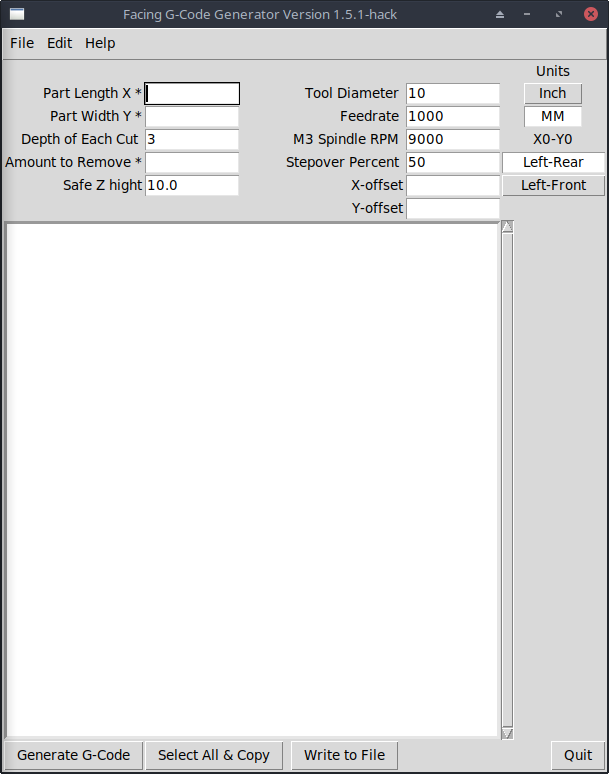
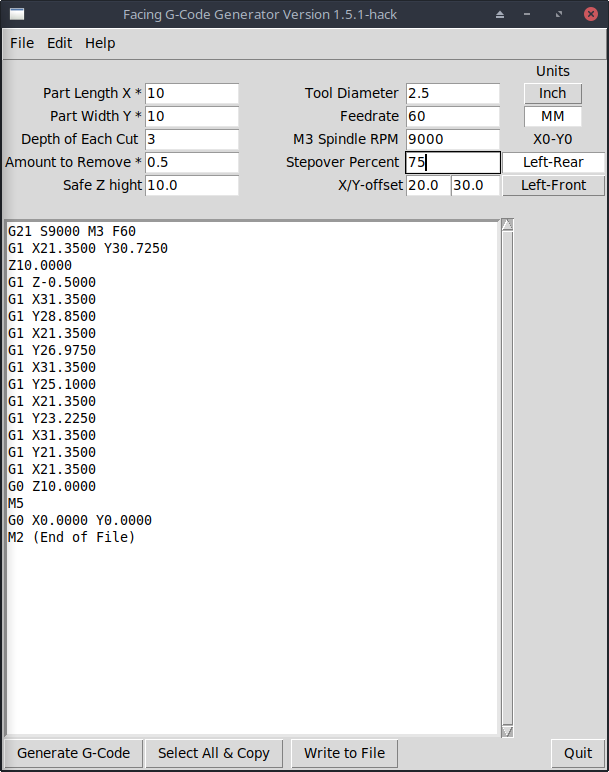
Improved layout & newer screenshot.

Changed region(s): [[0.0, 0.0933, 0.8424, 0.715], [0.0, 0.0933, 0.3744, 0.2487], [0.8112, 0.0933, 0.9672, 0.2487]]

diff --git a/face/face.py b/face/face.py
@@ -169,17 +169,17 @@ class Application(Frame):
 #        self.Leadin = Entry(self, width=10, textvariable=self.LeadinVar)
 #        self.Leadin.grid(row=5, column=3, sticky=W)
         
-        self.st8 = Label(self, text='X-offset')
+        self.st8 = Label(self, text='X/Y-offset')
         self.st8.grid(row=5, column=2, sticky=E)
         self.XoffsetVar = StringVar()
-        self.Xoffset = Entry(self, width=10, textvariable=self.XoffsetVar)
+        self.Xoffset = Entry(self, width=5, textvariable=self.XoffsetVar)
         self.Xoffset.grid(row=5, column=3, sticky=W)
         
-        self.st8 = Label(self, text='Y-offset')
-        self.st8.grid(row=6, column=2, sticky=E)
+#        self.st8 = Label(self, text='Y-offset')
+#        self.st8.grid(row=6, column=2, sticky=E)
         self.YoffsetVar = StringVar()
-        self.Yoffset = Entry(self, width=10, textvariable=self.YoffsetVar)
-        self.Yoffset.grid(row=6, column=3, sticky=W)
+        self.Yoffset = Entry(self, width=5, textvariable=self.YoffsetVar)
+        self.Yoffset.grid(row=5, column=3, sticky=E)
         
         self.spacer3 = Label(self, text='')
         self.spacer3.grid(row=6, column=0, columnspan=4)
